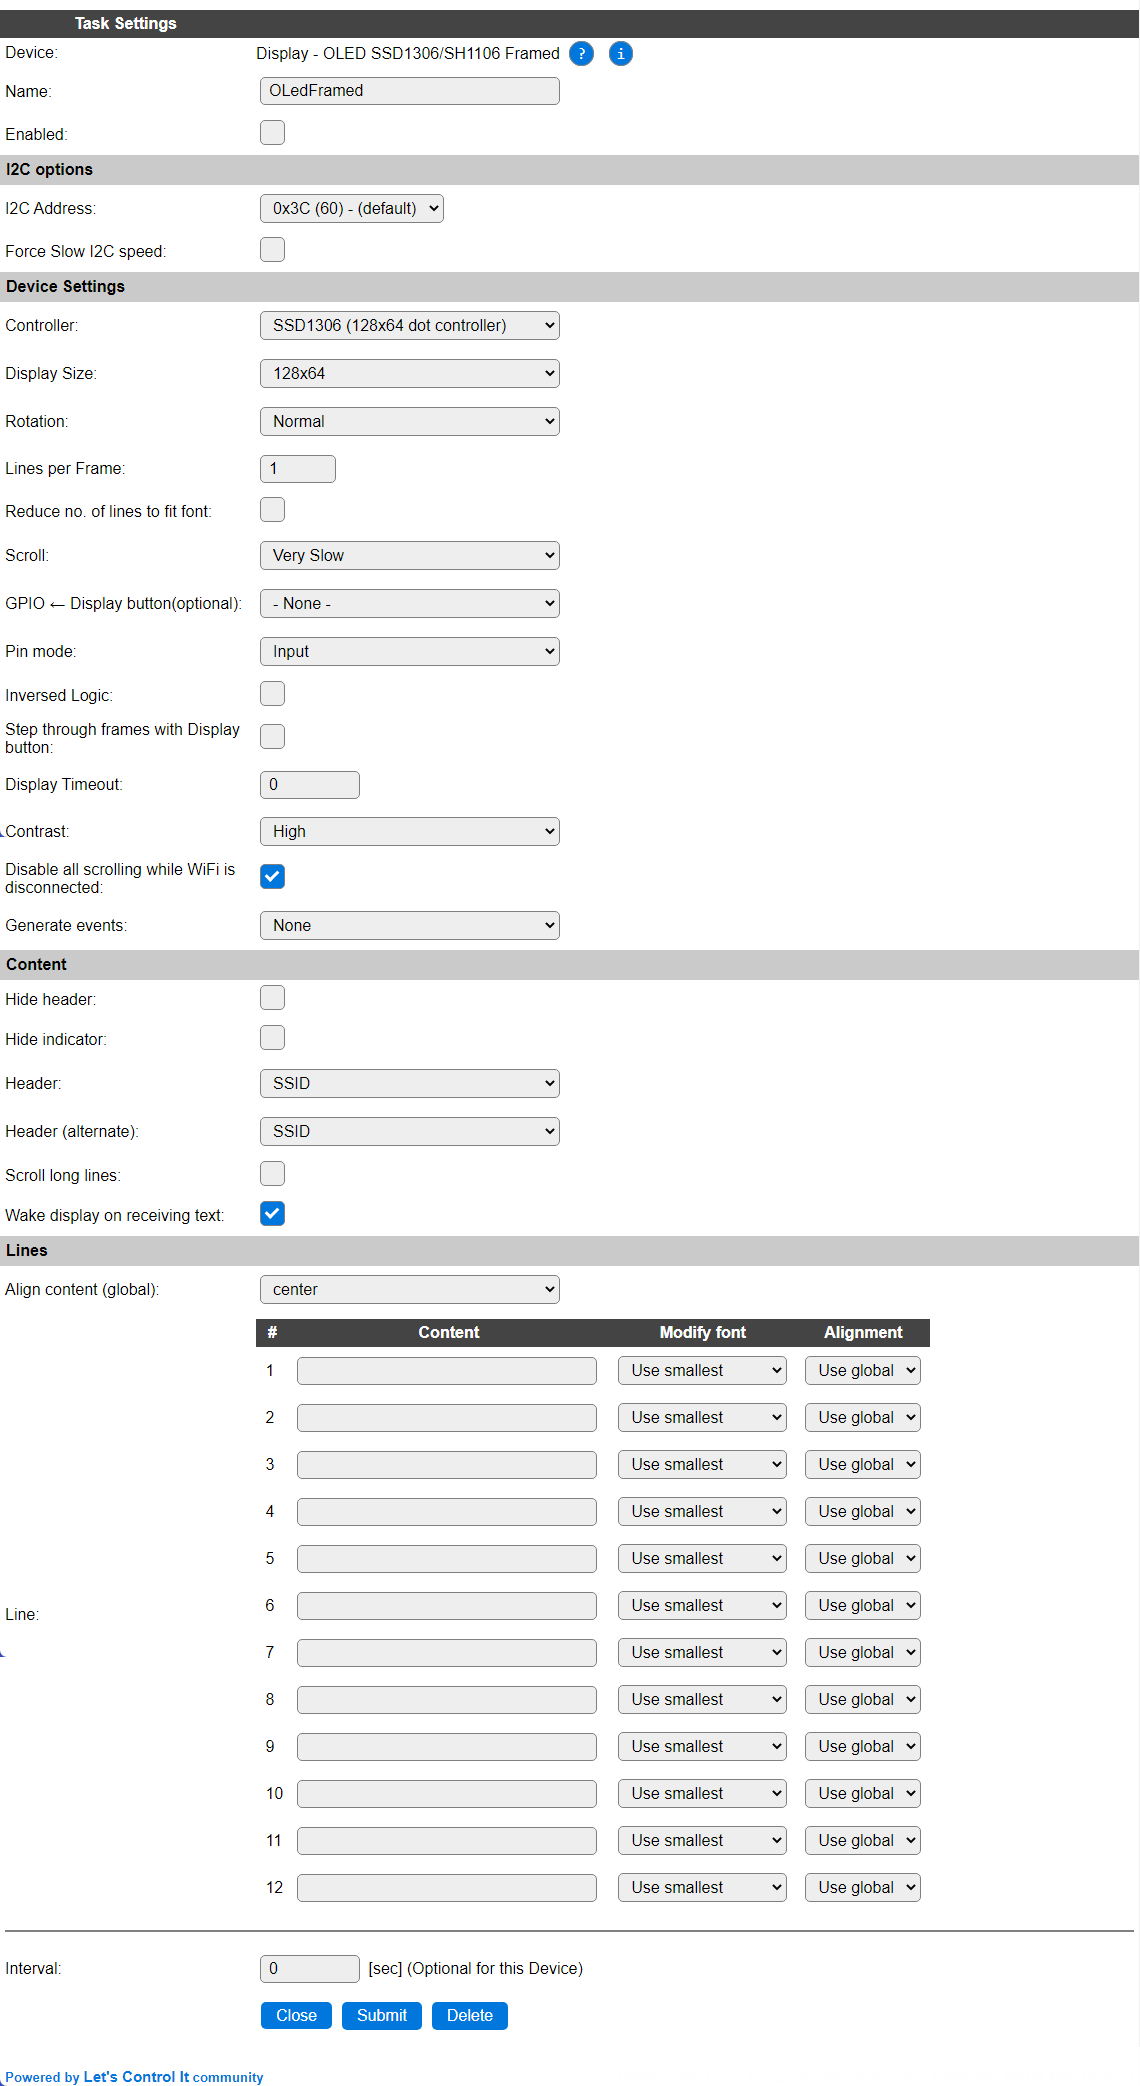
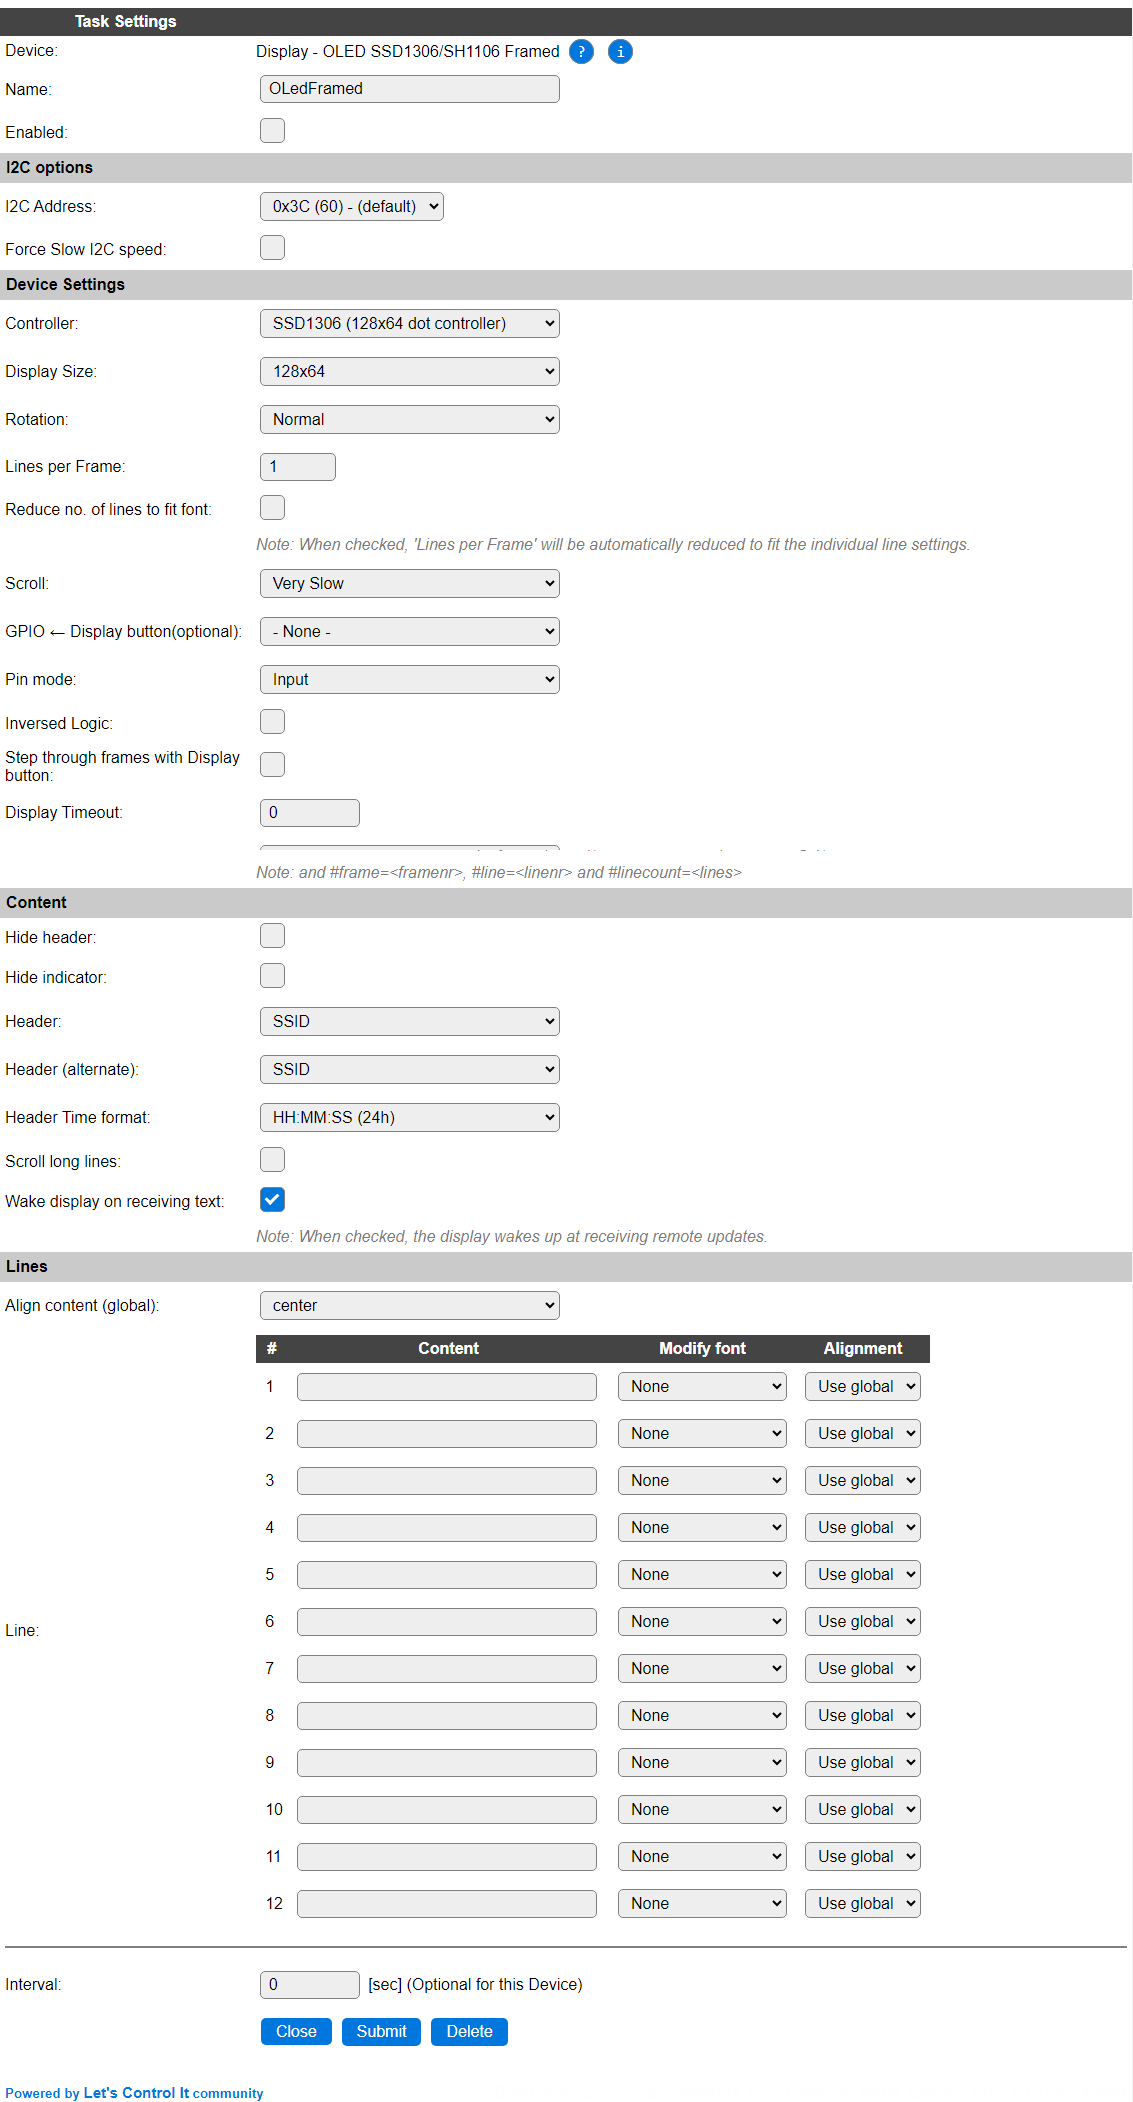
[P036] Add Header Time format options

diff --git a/src/src/PluginStructs/P036_data_struct.h b/src/src/PluginStructs/P036_data_struct.h
@@ -81,10 +81,17 @@
 # ifndef P036_ENABLE_LEFT_ALIGN
 #  define P036_ENABLE_LEFT_ALIGN  1 // Enable the Left-align content option and leftalign subcommand
 # endif // ifndef P036_ENABLE_LEFT_ALIGN
+# ifndef P036_ENABLE_TIME_FORMAT
+#  ifdef LIMIT_BUILD_SIZE
+#   define P036_ENABLE_TIME_FORMAT 0 // Disable Header Time format selection for limited builds
+#  else // ifdef LIMIT_BUILD_SIZE
+#   define P036_ENABLE_TIME_FORMAT 1 // Enable Header Time format selection
+#  endif // ifdef LIMIT_BUILD_SIZE
+# endif // ifndef P036_ENABLE_TIME_FORMAT
 
-# define P36_Nlines 12              // The number of different lines which can be displayed - each line is 64 chars max
-# define P36_NcharsV0 32            // max chars per line up to 22.11.2019 (V0)
-# define P36_NcharsV1 64            // max chars per line from 22.11.2019 (V1)
+# define P36_Nlines 12   // The number of different lines which can be displayed - each line is 64 chars max
+# define P36_NcharsV0 32 // max chars per line up to 22.11.2019 (V0)
+# define P36_NcharsV1 64 // max chars per line from 22.11.2019 (V1)
 
 # define P36_MaxDisplayWidth  128
 # define P36_MaxDisplayHeight 64
@@ -136,15 +143,16 @@
 // P036_FLAGS_1
 # define P036_FLAG_LEFT_ALIGNED        0  // Bit1-0 Layout left aligned
 # define P036_FLAG_REDUCE_LINE_NO      2  // Bit 2 Reduce line number to fit individual line font settings
+# define P036_FLAG_TIME_FORMAT         3  // Bit 3..6 Time format options, max. 16
 
 
-# define P036_EVENT_DISPLAY  0 // event: <taskname>#display=0/1
-# define P036_EVENT_CONTRAST 1 // event: <taskname>#contrast=0/1/2
-# define P036_EVENT_FRAME    2 // event: <taskname>#frame=1..n
-# define P036_EVENT_LINE     3 // event: <taskname>#line=1..n
-# define P036_EVENT_LINECNT  4 // event: <taskname>#linecount=1..4
-# define P036_EVENT_RESTORE  5 // event: <taskname>#restore=1..n
-# define P036_EVENT_SCROLL   6 // event: <taskname>#scroll=ePSS_VerySlow..ePSS_Ticker
+# define P036_EVENT_DISPLAY  0            // event: <taskname>#display=0/1
+# define P036_EVENT_CONTRAST 1            // event: <taskname>#contrast=0/1/2
+# define P036_EVENT_FRAME    2            // event: <taskname>#frame=1..n
+# define P036_EVENT_LINE     3            // event: <taskname>#line=1..n
+# define P036_EVENT_LINECNT  4            // event: <taskname>#linecount=1..4
+# define P036_EVENT_RESTORE  5            // event: <taskname>#restore=1..n
+# define P036_EVENT_SCROLL   6            // event: <taskname>#scroll=ePSS_VerySlow..ePSS_Ticker
 
 
 enum class eHeaderContent : uint8_t {
@@ -197,7 +205,7 @@ typedef struct {
   uint16_t LastWidth   = 0;    // width of last line in pix
   uint16_t Width       = 0;    // width in pix
   uint8_t  SLidx       = 0;    // index to DisplayLinesV1
-  uint8_t  reserved22{};         // Fillers added to achieve better instance/memory alignment (multiple of 8)
+  uint8_t  reserved22{};       // Fillers added to achieve better instance/memory alignment (multiple of 8)
   uint8_t  reserved23{};
   uint8_t  reserved24{};
 } tScrollLine;
@@ -388,7 +396,8 @@ struct P036_data_struct : public PluginTaskData_base {
                                    ePageScrollSpeed ScrollSpeed,
                                    uint8_t          NrLines);
 
-  bool plugin_write(struct EventStruct *event, const String& string);
+  bool plugin_write(struct EventStruct *event,
+                    const String      & string);
 
   bool isInitialized() const;
 
@@ -411,6 +420,7 @@ struct P036_data_struct : public PluginTaskData_base {
                           uint8_t     LineNo);
 
 private:
+
   String create_display_header_text(eHeaderContent iHeaderContent) const;
 
 public:
@@ -503,6 +513,10 @@ public:
   bool           bAlternativHeader        = false;
   bool           bReduceLinesPerFrame     = false;
 
+  # if P036_ENABLE_TIME_FORMAT
+  uint8_t timeFormat = 0; // Time format index
+  # endif // if P036_ENABLE_TIME_FORMAT
+
   // frames
   uint8_t MaxFramesToDisplay    = 0;     // total number of frames to display
   uint8_t currentFrameToDisplay = 0;
@@ -546,11 +560,13 @@ private:
   # endif // if P036_FEATURE_DISPLAY_PREVIEW
 
 # if P036_SEND_EVENTS
- 
-public:
-  static void P036_SendEvent(struct EventStruct *event, uint8_t eventId, int16_t eventValue);
-#endif
 
+public:
+
+  static void P036_SendEvent(struct EventStruct *event,
+                             uint8_t             eventId,
+                             int16_t             eventValue);
+# endif // if P036_SEND_EVENTS
 };
 
 #endif // ifdef USES_P036

diff --git a/src/src/PluginStructs/P036_data_struct.cpp b/src/src/PluginStructs/P036_data_struct.cpp
@@ -735,21 +735,22 @@ String P036_data_struct::create_display_header_text(eHeaderContent iHeaderConten
 {
   String newString, strHeader;
   const __FlashStringHelper *newString_f = F("%sysname%");
-  bool use_newString_f = true;
+  bool use_newString_f                   = true;
 
   switch (iHeaderContent) {
     case eHeaderContent::eSSID:
 
       if (NetworkConnected()) {
-        strHeader = WiFi.SSID();
+        strHeader       = WiFi.SSID();
         use_newString_f = false;
       }
-//      else {
-//        newString_f = F("%sysname%");
-//      }
+
+      //      else {
+      //        newString_f = F("%sysname%");
+      //      }
       break;
     case eHeaderContent::eSysName:
-//      newString_f = F("%sysname%");
+      //      newString_f = F("%sysname%");
       break;
     case eHeaderContent::eTime:
       newString_f = F("%systime%");
@@ -786,8 +787,8 @@ String P036_data_struct::create_display_header_text(eHeaderContent iHeaderConten
       break;
     case eHeaderContent::ePageNo:
       use_newString_f = false;
-      strHeader  = F("page ");
-      strHeader += (currentFrameToDisplay + 1);
+      strHeader       = F("page ");
+      strHeader      += (currentFrameToDisplay + 1);
 
       if (MaxFramesToDisplay != 0xFF) {
         strHeader += F("/");
@@ -797,11 +798,11 @@ String P036_data_struct::create_display_header_text(eHeaderContent iHeaderConten
     # if P036_USERDEF_HEADERS
     case eHeaderContent::eUserDef1:
       use_newString_f = false;
-      newString = userDef1;
+      newString       = userDef1;
       break;
     case eHeaderContent::eUserDef2:
       use_newString_f = false;
-      newString = userDef2;
+      newString       = userDef2;
       break;
     # endif // if P036_USERDEF_HEADERS
     case eHeaderContent::eNone:
@@ -831,10 +832,11 @@ void P036_data_struct::display_header() {
     return;
   }
 
-  const eHeaderContent iHeaderContent = ((HeaderContentAlternative == HeaderContent) || !bAlternativHeader) 
+  const eHeaderContent iHeaderContent = ((HeaderContentAlternative == HeaderContent) || !bAlternativHeader)
     ? HeaderContent
     : HeaderContentAlternative;
   const String title = create_display_header_text(iHeaderContent);
+
   display_title(title);
 
   // Display time and wifibars both clear area below, so paint them after the title.
@@ -855,7 +857,23 @@ void P036_data_struct::display_time() {
     return;
   }
 
-  const String dtime = SystemVariables::getSystemVariable(SystemVariables::SYSTIME);
+  # if P036_ENABLE_TIME_FORMAT
+  SystemVariables::Enum timeOptions[] = {
+    SystemVariables::SYSTIME,
+    SystemVariables::SYSTM_HM_0,
+    SystemVariables::SYSTIME_AM_0,
+    SystemVariables::SYSTM_HM_AM_0,
+  };
+  # endif // if P036_ENABLE_TIME_FORMAT
+
+  const String dtime = SystemVariables::getSystemVariable(
+    # if P036_ENABLE_TIME_FORMAT
+    timeOptions[timeFormat]
+    # else // if P036_ENABLE_TIME_FORMAT
+    SystemVariables::SYSTIME
+    # endif // if P036_ENABLE_TIME_FORMAT
+    );
+
   display->setTextAlignment(TEXT_ALIGN_LEFT);
   display->setFont(getArialMT_Plain_10());
   display->setColor(BLACK);
@@ -876,6 +894,7 @@ void P036_data_struct::display_title(const String& title) {
     return;
   }
   display->setFont(getArialMT_Plain_10());
+
   if (getDisplaySizeSettings(disp_resolution).Width == P36_MaxDisplayWidth) {
     display->setTextAlignment(TEXT_ALIGN_CENTER);
     display->drawString(P36_DisplayCentre, TopLineOffset, title);
@@ -1019,7 +1038,7 @@ tIndividualFontSettings P036_data_struct::CalculateIndividualFontSettings(uint8_
 
   for (uint8_t i = LineNo; i < P36_Nlines; ++i) {
     // calculate individual font settings
-    uint8_t lFontIndex             = FontIndex;
+    uint8_t lFontIndex            = FontIndex;
     const eModifyFont iModifyFont =
       static_cast<eModifyFont>(get3BitFromUL(LineContent->DisplayLinesV1[i].ModifyLayout, P036_FLAG_ModifyLayout_Font));
 
@@ -1028,8 +1047,8 @@ tIndividualFontSettings P036_data_struct::CalculateIndividualFontSettings(uint8_
 
         if (ScrollingPages.linesPerFrameDef > 1) {
           // Font can only be enlarged if more than 1 line is displayed
-          if (lFontIndex > IdxForBiggestFont) { 
-            lFontIndex--; 
+          if (lFontIndex > IdxForBiggestFont) {
+            lFontIndex--;
           } else {
             lFontIndex = IdxForBiggestFont;
           }

diff --git a/docs/source/Plugin/P036.rst b/docs/source/Plugin/P036.rst
@@ -114,6 +114,10 @@ Content
 
 * **Header** / **Header (alternate)**: The plugin allows for a header line, which may show some user selectable information. When using a different setting for **Header (alternate)**, the header will be updated halfway of the Interval time. The **User defined 1/2** options are not available in all builds. If they are available, their content can be set using the ``oledframedcmd,userDef1,'<user Defined Header1>'`` and ``oledframedcmd,userDef2,'<user Defined Header2>'`` commands (by default they are empty), see the command reference below for details.
 
+* **Header Time format**: To leave some more space for long **Header** values, the time can be shortened from the default *HH:MM:SS* format to *HH:MM* format. For users that prefer the AM/PM time format, these options have also been added.
+
+.. image:: P036_HeaderTimeFormatOptions.png
+
 * **Scroll long lines**: When checked, lines that won't fit on the display will be scrolled to be completely shown.
 
 * **Wake display on receiving text**: (default: on) Allows to not wake up the display when a text is sent from a remote source or rules, when Display Timeout is set, by unchecking this option.
